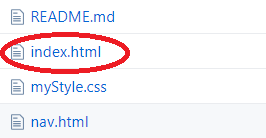
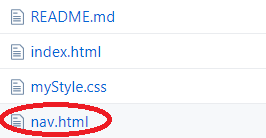
lots of changes

Changed region(s): [[0.0, 0.2319, 0.5113, 0.5507], [0.0, 0.7246, 0.4211, 1.0]]

diff --git a/DevCodeLook.html b/DevCodeLook.html
@@ -1,0 +1,50 @@
+<!DOCTYPE html>
+<html>
+<head>
+    <title>Developer Workshop</title>
+    <link rel="stylesheet" href="Default.css?v1.3" >
+
+    <script src="https://code.jquery.com/jquery-1.12.4.js"></script>
+    <script src="https://code.jquery.com/ui/1.12.1/jquery-ui.js"></script>
+    <link rel="stylesheet" href="https://code.jquery.com/ui/1.12.1/themes/base/jquery-ui.css" />
+    <script>
+  
+        $(function () {
+            
+            $('#codeAccordion').accordion({
+                heightStyle: "content",
+                collapsible: true,
+                active: false
+            });
+
+            
+        });
+
+
+
+    </script>
+    </head>
+<body>
+    <object name="Top" type="text/html" data="Nav.html" style="width: 100%"></object>
+<section>
+    <h1>Looking at the Code</h1>
+    <div >
+        <p class="instruction">Here's three of your pages  </p>
+        <br/><br/>
+        <h3>The Home page: index.html</h3>
+        <img src="images/indexhtml.png"/>
+        <br/><br/>
+        <h3>The Page Header and Navigation bar: nav.html</h3>
+        <img src="images/navhtml.png"/>
+        <br/><br/>
+        <h3>The Stylesheet: mystyle.css</h3>
+        <img src="images/mystylecss.png"/>
+
+    </div>
+</section>
+<div class="PrevLink"><a href='DevSetUp2.html'>Previous: Customize our Page</a></div>&nbsp;&nbsp;
+<div class="NextLink"><a href='Dev0.html'>Next: Input on a Web Page</a></div>
+
+
+</body>
+</html>

diff --git a/DevSetUp.html b/DevSetUp.html
@@ -9,10 +9,10 @@
     <object name="Top" type="text/html" data="Nav.html" style="width: 100%"></object>
     <h1 style='margin: 25px;'>Set Up My Account</h1>
     <div style='margin: 30px;'>
-    <p>We'll be using two tools that are already loaded on your laptop: GitHub Desktop, and Komodo Edit.  </p>
+
     <p>First, we'll create an account with GitHub.  (Unless you already have one.)  Note: you will need
         an email address that you can access to confirm your account.)
-       Git is a cloud repository for you code, that will also let you publish a simple website for free.</p>
+       GitHub is a cloud repository for you code, that will also let you publish a simple website for free.</p>
     <p><span class='Step'>1</span>Go to https://github.com/, and click the button to
     <span class='greenButton'>Sign up for GitHub</span><br/><br/></p>
     <p><span class='Step'>2</span>Create an account.  Your username will be the name on your website, so consider what you would like...

diff --git a/Resources.html b/Resources.html
@@ -34,9 +34,12 @@
             <li><a href="https://jQuery.com" target="_blank">jQuery</a> is a free JavaScript library we used today in our coding.
             We also used <a href="https://jQueryUi.com" target="_blank">jQuery Ui</a>, which
             provides widgets and can help you create cool effects.</li>
-             <li>
+            <li>
                 When you run into problems, <a href="https://stackoverflow.com" target="_blank">Stack Overflow</a> has lots answers. Or you can
                 pose your own question and others will try to help.
+            </li>
+            <li>
+                <a href="https://www.w3schools.com/colors/colors_picker.asp"  target="_blank">Color Picker</a>
             </li>
             <li>If you have a smart phone or tablet, there's a free tool called <strong>Grasshopper</strong> you can download to learn how to code.</li>
         </ul>

diff --git a/DevSetup2.html b/DevSetup2.html
@@ -28,10 +28,11 @@
             <div><p>Give it a minute, and...your page is now out there on the web!</p>
             
             
-            <p>Check it out by using a browser, and going to <strong>https://username.github.io</strong></p></div>
+                <p>Check it out by using a browser, and going to <strong>https://username.github.io</strong></p></div>
+            <div class="todo">Replace pic of Nav bar with updated one that has new links</div>
 
             <div class="PrevLink"><br/><br/><a href='DevSetUp.html'>Previous: Set up our Account</a></div>&nbsp;&nbsp;
-            <div class="NextLink"><a href='Dev0.html'>Next: Looking at the Code</a></div>
+            <div class="NextLink"><a href='DevCodeLook.html'>Next: Looking at the Code</a></div>
             
     
     </div>

diff --git a/Dev0.html b/Dev0.html
@@ -60,12 +60,10 @@
                     <button id="SubmitButton">Submit</button>
                 </div>
             </div>
-            
-            <div style='clear: both; text-align: left;'>
-                <p> &nbsp; &nbsp; <a href="Dev1.html">Next: Let's see a jazzier version</a></p>
-                
+        <div style="clear: both;"></div>    
+        <div class="PrevLink"><a href='DevCodeLook.html'>Previous: Look at the Code</a></div>&nbsp;&nbsp;
+        <div class="NextLink"><a href='Dev1.html'>Next: Jazzier Pages</a></div>
 
-            </div>
             
             
             <div style="clear:both;" class="todo">

diff --git a/Dev1.html b/Dev1.html
@@ -173,12 +173,12 @@
 
 
         <div  style='clear: both;'>
-            <p class='todo'>
-
-            </p>
         </div>
+        <div class="PrevLink"><br/><br/><a href='Dev0.html'>Previous: Input on a Webpage</a></div>&nbsp;&nbsp;
+
         <div id="SummaryMe" title="This is Me">
         </div>
+
     </section>
 
 </body>
